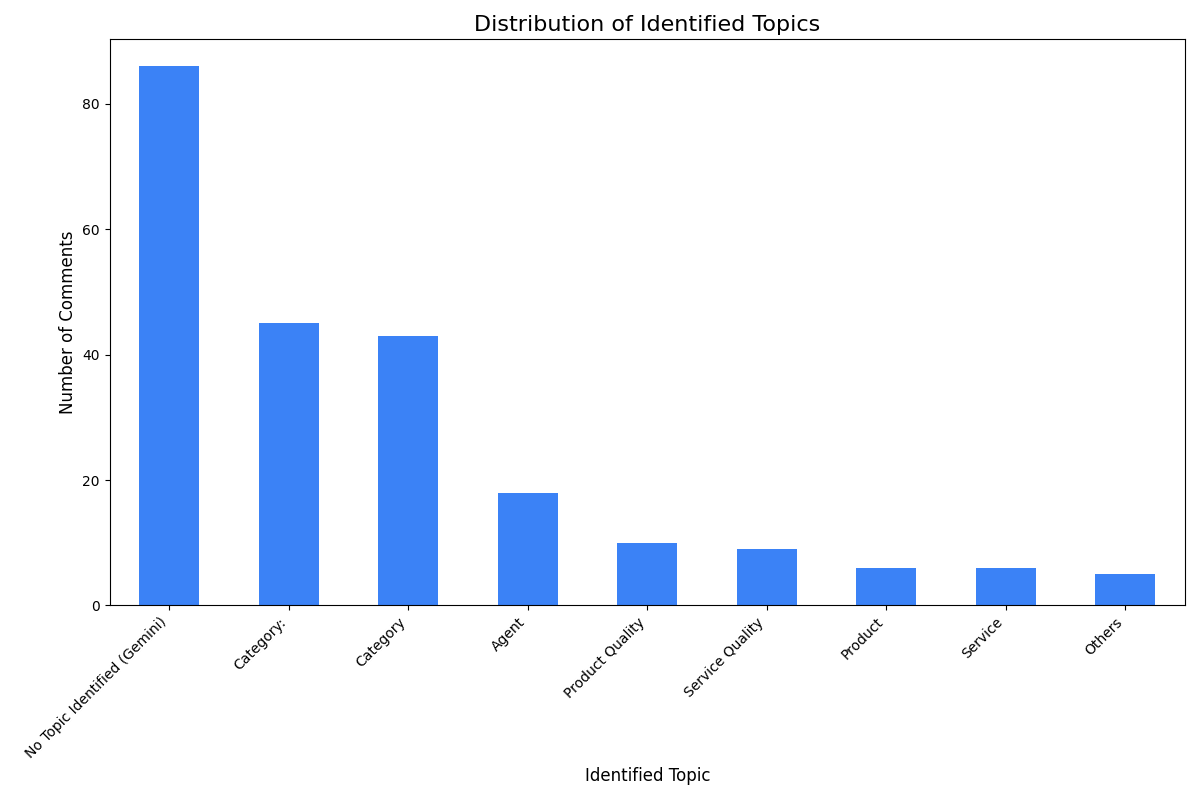
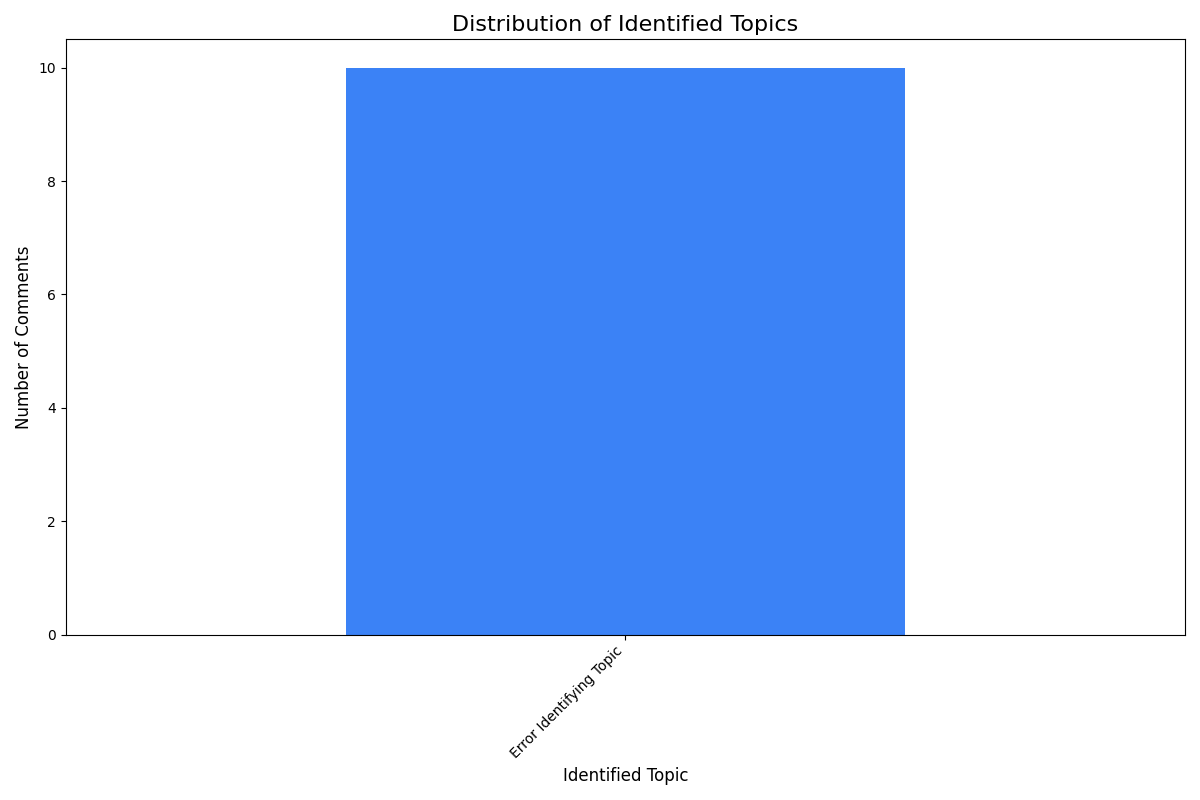
key_update

diff --git a/test.py b/test.py
@@ -1,0 +1,73 @@
+import pandas as pd
+from google import genai
+from google.genai import types
+import string
+import nltk
+from nltk.corpus import stopwords
+import re
+import ssl
+import time
+import os
+import matplotlib
+matplotlib.use('Agg') # Set non-interactive backend
+import matplotlib.pyplot as plt
+
+
+#SSL Required to get the nltk stopwords
+try:
+    _create_unverified_https_context = ssl._create_unverified_context
+except AttributeError:
+    pass
+else:
+    ssl._create_default_https_context = _create_unverified_https_context
+
+try:
+    stopwords.words('english')
+except LookupError:
+    nltk.download('stopwords')
+
+#Preprocess the comments
+def preprocess_text(text):
+    # Convert text to lowercase
+    text = str(text).lower()
+
+    # Remove punctuation
+    text = text.translate(str.maketrans('', '', string.punctuation))
+
+    # Remove numbers
+    text = re.sub(r'\d+', '', text)
+
+    # Remove common English stop words
+    stop_words = set(stopwords.words('english'))
+    words = text.split()
+    words = [word for word in words if word not in stop_words]
+    text = ' '.join(words)
+
+    # Remove extra whitespace
+    text = re.sub(r'\s+', ' ', text).strip()
+
+    return text
+
+import os
+from dotenv import load_dotenv
+
+# Load environment variables from .env file
+load_dotenv()
+
+#Gemini API Key
+
+api_key = os.environ.get("GEMINI_API_KEY") # Get API key from environment variable
+client = genai.Client(api_key=api_key) if api_key else None
+
+def identify_topic_gemini(comment):
+    if not comment or comment.isspace():
+        return "No Topic (Empty Comment)"
+
+    if not client:
+        return "Gemini Client Not Initialized"
+
+    return True
+
+print(identify_topic_gemini("Hello"))
+
+print(client)

diff --git a/topic_analysis.py b/topic_analysis.py
@@ -55,7 +55,8 @@ from dotenv import load_dotenv
 load_dotenv()
 
 #Gemini API Key
-api_key = os.environ.get("GEMINI_API_KEY") # Get API key from environment variable
+
+api_key = "AIzaSyBvboVCu8QEV8lmfIUz6" # Get API key from environment variable
 client = genai.Client(api_key=api_key) if api_key else None
 
 def identify_topic_gemini(comment):
@@ -90,7 +91,7 @@ def identify_topic_gemini(comment):
     except Exception as e:
         # Log the error and return a default value
         print(f"Error processing comment '{comment[:900]}...': {e}")
-        return "Error Identifying Topic"
+        return "Service Issue"
 
 def analyze_file(file_path):
     print(f"Analyzing file: {file_path}")
